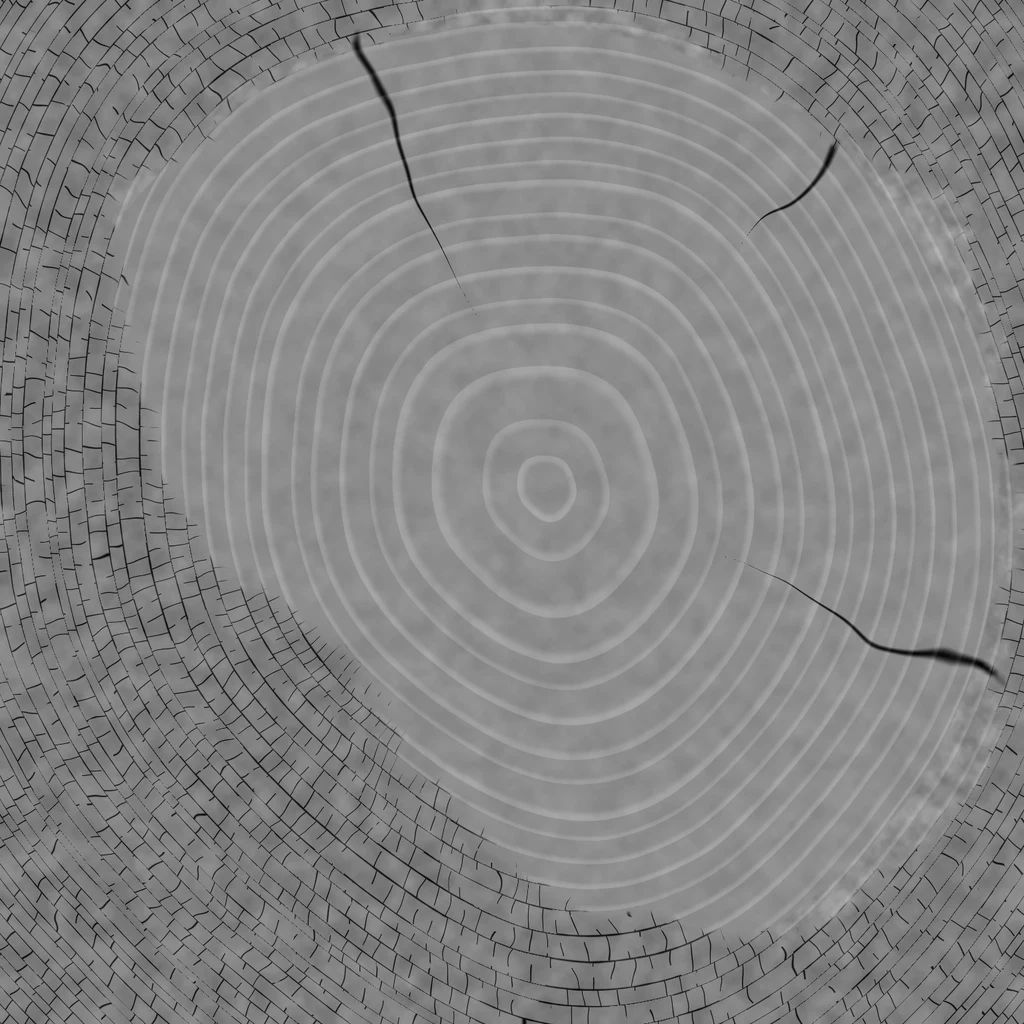
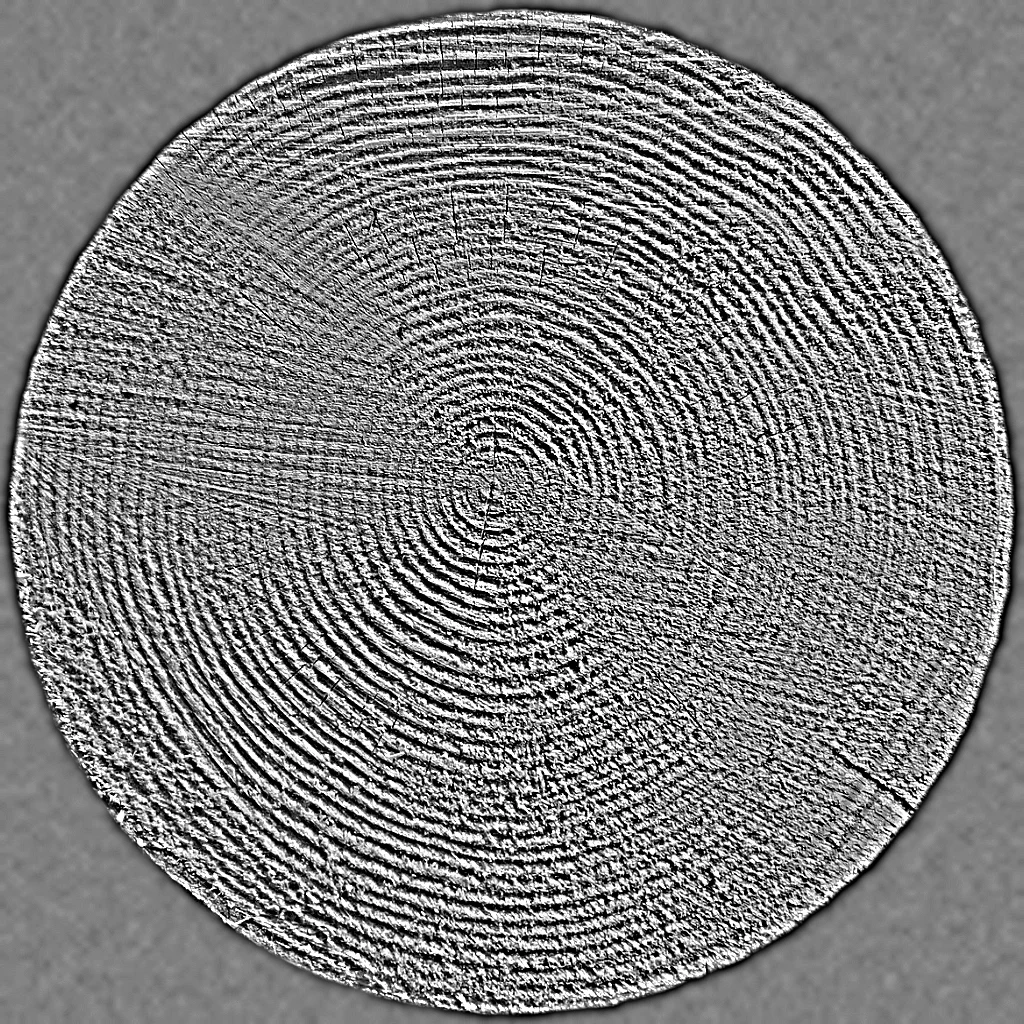
Ekte foto på stammeskiva øverst på forsiden (#9)
* Bygg første versjon av Sitka-nettsiden

Erstatter startsiden fra create-next-app med en ferdig forside i
Sitka-profilen (rød, svart, offwhite, Oswald + Inter):

- Åpningsanimasjon der årringene fra logoen tegnes opp
- Hero med roterende 3D-årring (React Three Fiber) og biokullkorn
- Myk scrolling (Lenis) koblet til GSAP ScrollTrigger
- Seksjoner for problemet, løsningen, prosessen (festet sidelengs
  scroll med pyrolysevideoen), bærekraft, kunder, om oss og kontakt
- Egen musepeker, rullende tekstbånd og scroll-styrte animasjoner (Motion)
- All tekst som skal fylles inn ligger i components/innhold.ts
- README på norsk som forklarer hvor ting ligger

Claude-Session: https://claude.ai/code/session_01RoJtqgtKYFZpRKbvxCJJJw

* Gjør biokullkornene i steg 3 tydeligere

Claude-Session: https://claude.ai/code/session_01RoJtqgtKYFZpRKbvxCJJJw

* Lås scrolling når mobilmenyen er åpen og tilpass tekststørrelse på mobil

Claude-Session: https://claude.ai/code/session_01RoJtqgtKYFZpRKbvxCJJJw

* Julians endringer: rolig 3D-bakgrunn, ekte bilder, fjernet Om oss

- 3D-årringen er nå bare bakgrunn (ingen mus- eller scrollstyring)
- Fjernet Kongshavn vgs, ungdomsbedrift, Om oss, begge rulletekstene og «SITKA» nederst
- Stort «Problemet» og mindre overskrifter i problem-delene
- E-post: sitkabiokull@gmail.com
- Fem ekte bilder fra Wikimedia Commons med fotograf og lisens i bildeteksten

Claude-Session: https://claude.ai/code/session_01RoJtqgtKYFZpRKbvxCJJJw
[…]

diff --git a/components/RingScene.tsx b/components/RingScene.tsx
@@ -1,21 +1,30 @@
 "use client";
 /* eslint-disable react-hooks/immutability -- three.js-objekter endres med vilje i hver frame */
 
-import { Component, Suspense, useEffect, useMemo, useRef, useState, type ReactNode } from "react";
+import {
+  Component,
+  Suspense,
+  useEffect,
+  useMemo,
+  useRef,
+  useState,
+  type ReactNode,
+} from "react";
 import { Canvas, useFrame, useLoader, useThree } from "@react-three/fiber";
 import * as THREE from "three";
 import { LOADED_EVENT } from "./rings";
 
-// En ekte stammeskive av gran som er i ferd med å bli til biokull:
-// lyst treverk med årringer, forkullet kant med glør, og gnister som stiger opp.
-// Teksturene er laget på forhånd og ligger i public/media/treskive/.
+// En stammeskive laget fra et ekte foto av en tømmerstokk (se scripts/fotoskive.py),
+// som vipper rolig mens fint støv svever i lyset. Teksturene ligger i public/media/treskive/.
 
 const T = "/media/treskive/";
 const RED = "#E0201A";
 
 function useLoaded() {
   const [loaded, setLoaded] = useState(
-    () => typeof window !== "undefined" && !!(window as unknown as { __sitkaLoaded?: boolean }).__sitkaLoaded,
+    () =>
+      typeof window !== "undefined" &&
+      !!(window as unknown as { __sitkaLoaded?: boolean }).__sitkaLoaded,
   );
   useEffect(() => {
     const on = () => setLoaded(true);
@@ -27,14 +36,12 @@ function useLoaded() {
 
 function Disc() {
   const group = useRef<THREE.Group>(null);
-  const glowLight = useRef<THREE.PointLight>(null);
   const loaded = useLoaded();
   const intro = useRef(0);
   const { viewport, gl } = useThree();
 
-  const [face, glow, faceBump, bark, barkBump] = useLoader(THREE.TextureLoader, [
+  const [face, faceBump, bark, barkBump] = useLoader(THREE.TextureLoader, [
     T + "treskive.webp",
-    T + "treskive-glod.webp",
     T + "treskive-relieff.webp",
     T + "bark.webp",
     T + "bark-relieff.webp",
@@ -42,9 +49,9 @@ function Disc() {
 
   const mats = useMemo(() => {
     const aniso = gl.capabilities.getMaxAnisotropy();
-    for (const t of [face, glow]) t.colorSpace = THREE.SRGBColorSpace;
+    face.colorSpace = THREE.SRGBColorSpace;
     bark.colorSpace = THREE.SRGBColorSpace;
-    for (const t of [face, glow, faceBump]) t.anisotropy = aniso;
+    for (const t of [face, faceBump]) t.anisotropy = aniso;
     for (const t of [bark, barkBump]) {
       t.wrapS = THREE.RepeatWrapping;
       t.anisotropy = aniso;
@@ -52,11 +59,8 @@ function Disc() {
     const faceMat = new THREE.MeshStandardMaterial({
       map: face,
       bumpMap: faceBump,
-      bumpScale: 2.2,
-      emissiveMap: glow,
-      emissive: new THREE.Color("#ffffff"),
-      emissiveIntensity: 1.4,
-      roughness: 0.82,
+      bumpScale: 1.5,
+      roughness: 0.9,
       metalness: 0,
     });
     const sideMat = new THREE.MeshStandardMaterial({
@@ -67,7 +71,7 @@ function Disc() {
       metalness: 0,
     });
     return [sideMat, faceMat, faceMat];
-  }, [face, glow, faceBump, bark, barkBump, gl]);
+  }, [face, faceBump, bark, barkBump, gl]);
 
   // Smale skjermer (mobil): mindre skive, midtstilt og lenger ned, så den ikke dekker teksten
   const small = viewport.width < 6;
@@ -77,37 +81,40 @@ function Disc() {
   useFrame((state, dt) => {
     if (!group.current) return;
     const t = state.clock.elapsedTime;
-    intro.current = THREE.MathUtils.damp(intro.current, loaded ? 1 : 0, 1.4, dt);
+    intro.current = THREE.MathUtils.damp(
+      intro.current,
+      loaded ? 1 : 0,
+      1.4,
+      dt,
+    );
     const k = intro.current;
 
     group.current.scale.setScalar((small ? smallScale : 1.1) * (0.6 + 0.4 * k));
-    group.current.position.set(small ? 0 : 1.55, (small ? -0.2 * viewport.height : 0) + Math.sin(t * 0.5) * 0.05, 0);
-    group.current.rotation.x = 0.32 + Math.sin(t * 0.3) * 0.04;
+    group.current.position.set(
+      small ? 0 : 1.55,
+      (small ? -0.2 * viewport.height : 0) + Math.sin(t * 0.5) * 0.05,
+      0,
+    );
+    group.current.rotation.x = 0.28 + Math.sin(t * 0.3) * 0.04;
     // vipper rolig fram og tilbake, så forsiden med årringene alltid synes
-    group.current.rotation.y = -0.45 + Math.sin(t * 0.22) * 0.5 + (1 - k) * 1.5;
-    group.current.rotation.z = Math.sin(t * 0.22) * 0.05;
-
-    // glørne blafrer svakt, som ekte glør
-    const flick = 0.75 + 0.18 * Math.sin(t * 2.1) + 0.1 * Math.sin(t * 5.3 + 1) + 0.06 * Math.sin(t * 11.7);
-    (mats[1] as THREE.MeshStandardMaterial).emissiveIntensity = (1.1 + 0.6 * flick) * k;
-    if (glowLight.current) glowLight.current.intensity = (2.5 + 2 * flick) * k;
+    group.current.rotation.y = -0.4 + Math.sin(t * 0.22) * 0.35 + (1 - k) * 1.5;
+    group.current.rotation.z = Math.sin(t * 0.22) * 0.04;
   });
 
   return (
-    <group ref={group}>
-      <mesh rotation={[Math.PI / 2, 0, 0]} material={mats}>
-        <cylinderGeometry args={[1.5, 1.5, 0.38, 160, 1]} />
-      </mesh>
-      {/* varmt lys fra den forkullede siden */}
-      <pointLight ref={glowLight} position={[-1.6, -0.9, 0.9]} color="#ff7a2e" distance={3.5} decay={1.8} />
-      <Embers />
-    </group>
+    <>
+      <Stov />
+      <group ref={group}>
+        <mesh rotation={[Math.PI / 2, 0, 0]} material={mats}>
+          <cylinderGeometry args={[1.5, 1.5, 0.38, 160, 1]} />
+        </mesh>
+      </group>
+    </>
   );
 }
 
-// Glør og gnister som stiger sakte opp fra den forkullede kanten og slukner
-function Embers({ count = 90 }) {
-  const ref = useRef<THREE.Points>(null);
+// Fint støv som svever sakte gjennom lyset, slik man ser i en solstripe i en låve
+function Stov({ count = 140 }) {
   const { data, geo, mat } = useMemo(() => {
     let seed = 3;
     const rnd = () => {
@@ -115,28 +122,33 @@ function Embers({ count = 90 }) {
       return (seed - 1) / 2147483646;
     };
     const data = Array.from({ length: count }, () => ({
-      x: -1.8 + rnd() * 2.4,
-      z: (rnd() - 0.5) * 1.2,
-      life: 3 + rnd() * 4,
-      off: rnd() * 10,
-      drift: (rnd() - 0.5) * 0.5,
-      size: 0.5 + rnd() * 1.2,
+      x: -1 + rnd() * 5,
+      y: -2.2 + rnd() * 4.4,
+      z: -1 + rnd() * 2.5,
+      speed: 0.02 + rnd() * 0.05,
+      off: rnd() * 100,
+      b: 0.15 + rnd() * 0.45,
     }));
     const geo = new THREE.BufferGeometry();
-    geo.setAttribute("position", new THREE.BufferAttribute(new Float32Array(count * 3), 3));
-    geo.setAttribute("color", new THREE.BufferAttribute(new Float32Array(count * 3), 3));
-    // rund, myk prikk
+    geo.setAttribute(
+      "position",
+      new THREE.BufferAttribute(new Float32Array(count * 3), 3),
+    );
+    geo.setAttribute(
+      "color",
+      new THREE.BufferAttribute(new Float32Array(count * 3), 3),
+    );
     const c = document.createElement("canvas");
     c.width = c.height = 64;
     const g = c.getContext("2d")!;
     const grad = g.createRadialGradient(32, 32, 0, 32, 32, 32);
     grad.addColorStop(0, "rgba(255,255,255,1)");
-    grad.addColorStop(0.25, "rgba(255,255,255,0.7)");
+    grad.addColorStop(0.3, "rgba(255,255,255,0.5)");
     grad.addColorStop(1, "rgba(255,255,255,0)");
     g.fillStyle = grad;
     g.fillRect(0, 0, 64, 64);
     const mat = new THREE.PointsMaterial({
-      size: 0.085,
+      size: 0.035,
       map: new THREE.CanvasTexture(c),
       vertexColors: true,
       transparent: true,
@@ -152,18 +164,21 @@ function Embers({ count = 90 }) {
     const pos = geo.attributes.position as THREE.BufferAttribute;
     const col = geo.attributes.color as THREE.BufferAttribute;
     data.forEach((d, i) => {
-      const p = ((t + d.off) % d.life) / d.life; // 0 → 1 gjennom livet
-      const y = -1.1 + p * 3.2;
-      pos.setXYZ(i, d.x + Math.sin(t * 0.9 + i) * 0.12 + d.drift * p, y, d.z + Math.cos(t * 0.7 + i) * 0.1);
-      const fade = Math.sin(Math.PI * Math.min(1, p * 1.2)) * (0.6 + 0.4 * Math.sin(t * 9 + i * 3));
-      const b = Math.max(0, fade) * d.size;
-      col.setXYZ(i, 1.0 * b, (0.38 + 0.25 * (1 - p)) * b, 0.08 * b);
+      const y = ((d.y + 2.2 + (t + d.off) * d.speed) % 4.4) - 2.2;
+      pos.setXYZ(
+        i,
+        d.x + Math.sin(t * 0.15 + i) * 0.25,
+        y,
+        d.z + Math.cos(t * 0.12 + i) * 0.2,
+      );
+      const b = d.b * (0.7 + 0.3 * Math.sin(t * 0.8 + i * 2));
+      col.setXYZ(i, 1.0 * b, 0.86 * b, 0.7 * b);
     });
     pos.needsUpdate = true;
     col.needsUpdate = true;
   });
 
-  return <points ref={ref} geometry={geo} material={mat} />;
+  return <points geometry={geo} material={mat} />;
 }
 
 function hasWebGL() {
@@ -205,7 +220,9 @@ export default function RingScene() {
   // Stopper 3D-tegningen når helten er ute av syne (sparer batteri)
   useEffect(() => {
     if (!wrap.current) return;
-    const io = new IntersectionObserver(([e]) => setVisible(e.isIntersecting), { rootMargin: "100px" });
+    const io = new IntersectionObserver(([e]) => setVisible(e.isIntersecting), {
+      rootMargin: "100px",
+    });
     io.observe(wrap.current);
     return () => io.disconnect();
   }, []);
@@ -218,15 +235,27 @@ export default function RingScene() {
             frameloop={visible ? "always" : "never"}
             dpr={[1, 2]}
             camera={{ position: [0, 0, 7], fov: 35 }}
-            gl={{ antialias: true, alpha: true, powerPreference: "high-performance" }}
+            gl={{
+              antialias: true,
+              alpha: true,
+              powerPreference: "high-performance",
+            }}
             onCreated={({ gl }) => {
               gl.toneMapping = THREE.ACESFilmicToneMapping;
             }}
           >
-            <ambientLight intensity={0.25} color="#ffe8d8" />
+            <ambientLight intensity={0.4} color="#fff1e6" />
             {/* mykt dagslys ovenfra, og et svakt rødt kantlys bakfra (Sitka-rødt) */}
-            <directionalLight position={[-3, 5, 6]} intensity={2.7} color="#fff1e4" />
-            <directionalLight position={[4, -1, -4]} intensity={0.9} color={RED} />
+            <directionalLight
+              position={[-4, 5, 5]}
+              intensity={2.4}
+              color="#fff1e4"
+            />
+            <directionalLight
+              position={[4, -1, -4]}
+              intensity={0.9}
+              color={RED}
+            />
             <Suspense fallback={null}>
               <Disc />
             </Suspense>

diff --git a/components/Hero.tsx b/components/Hero.tsx
@@ -14,7 +14,8 @@ const ease = [0.22, 1, 0.36, 1] as const;
 
 export default function Hero() {
   const loaded = useLoaded();
-  const t = innhold[useSprak()].hero;
+  const lang = useSprak();
+  const t = innhold[lang].hero;
   const ref = useRef<HTMLElement>(null);
   const { scrollYProgress } = useScroll({ target: ref, offset: ["start start", "end start"] });
   const titleY = useTransform(scrollYProgress, [0, 1], ["0%", "60%"]);
@@ -69,7 +70,28 @@ export default function Hero() {
         </div>
 
         <motion.div style={{ y: titleY }}>
-          <div className="mb-2 flex items-end justify-end font-display text-[10px] uppercase tracking-[0.3em] text-off/50 md:text-xs">
+          <div className="mb-2 flex items-end justify-between gap-4 font-display text-[10px] uppercase tracking-[0.3em] text-off/50 md:text-xs">
+            {/* bildet av stammeskiva er et ekte foto, og lisensen krever at fotografen nevnes */}
+            <span className="pointer-events-auto font-sans text-[10px] normal-case tracking-normal text-off/35">
+              {innhold[lang].foto}:{" "}
+              <a
+                href="https://commons.wikimedia.org/wiki/File:Abies_alba_cross_section_Beskid_%C5%BBywiecki.JPG"
+                target="_blank"
+                rel="noreferrer"
+                className="underline decoration-current/30 underline-offset-2 hover:text-red"
+              >
+                Crusier
+              </a>
+              ,{" "}
+              <a
+                href="https://creativecommons.org/licenses/by-sa/3.0/"
+                target="_blank"
+                rel="noreferrer"
+                className="underline decoration-current/30 underline-offset-2 hover:text-red"
+              >
+                CC BY-SA 3.0
+              </a>
+            </span>
             <motion.span
               className="flex items-center gap-2"
               initial={{ opacity: 0 }}

diff --git a/scripts/fotoskive.py b/scripts/fotoskive.py
@@ -1,0 +1,66 @@
+# Lager teksturene til stammeskiva på forsiden fra et ekte foto av en tømmerstokk (Abies alba).
+# Foto: Crusier, Wikimedia Commons, CC BY-SA 3.0. Tekstur = beskåret og rettet ut, delvis forkullet.
+import numpy as np, sys
+# Kilde: https://commons.wikimedia.org/wiki/File:Abies_alba_cross_section_Beskid_%C5%BBywiecki.JPG (1920 px-versjon)
+# Kjør: python3 scripts/fotoskive.py foto.jpg public/media/treskive 0   (siste tall 1 = med forkulling)
+from PIL import Image, ImageFilter
+SRC, OUT, CHAR = sys.argv[1], sys.argv[2], sys.argv[3] == "1"
+src = np.asarray(Image.open(SRC).convert("RGB")).astype(np.float32)
+H, W, _ = src.shape
+s = W / 1280
+cx, cy, rx, ry = 637 * s, 423 * s, 395 * s, 372 * s
+N = 1024
+v, u = np.mgrid[0:N, 0:N].astype(np.float32)
+u = u / (N - 1) * 2 - 1; v = v / (N - 1) * 2 - 1
+k = 0.985
+sx = cx + u * rx * k; sy = cy + v * ry * k
+x0 = np.clip(np.floor(sx).astype(int), 0, W - 2); y0 = np.clip(np.floor(sy).astype(int), 0, H - 2)
+fx = (sx - x0)[..., None]; fy = (sy - y0)[..., None]
+col = (src[y0, x0] * (1 - fx) * (1 - fy) + src[y0, x0 + 1] * fx * (1 - fy) + src[y0 + 1, x0] * (1 - fx) * fy + src[y0 + 1, x0 + 1] * fx * fy)
+R = np.sqrt(u**2 + v**2)
+
+def sm(a, b, x):
+    t = np.clip((x - a) / (b - a), 0, 1); return t * t * (3 - 2 * t)
+def noise(cells, seed):
+    r = np.random.default_rng(seed).random((cells, cells)).astype(np.float32)
+    return np.asarray(Image.fromarray(r, mode="F").resize((N, N), Image.BICUBIC)) - 0.5
+def fbm(base, octs, seed):
+    t = 0; a = 1; tot = 0
+    for o in range(octs):
+        t = t + a * noise(base * 2**o + 1, seed + o); tot += a; a *= 0.5
+    return t / tot
+
+# kanten: mørk bark utenfor årringene (fotoet har litt gress helt ytterst)
+nb = fbm(40, 3, 7)
+bark = sm(0.972, 0.985, R + 0.01 * nb)
+col = col * (1 - bark[..., None]) + np.array([46, 32, 26], np.float32) * (0.8 + nb[..., None]) * bark[..., None]
+lum = col.mean(-1)
+
+glow = np.zeros((N, N), np.float32)
+if CHAR:
+    a = np.arctan2(v, u); a0 = 2.4
+    side = np.maximum(0, np.cos(a - a0))
+    charf = R * 0.75 + 0.42 * side**1.5 + 0.16 * fbm(6, 5, 21) + 0.04 * fbm(60, 3, 3)
+    char = sm(0.735, 0.765, charf)
+    scorch = sm(0.6, 0.75, charf) * (1 - char)
+    # kullet beholder strukturen i treet (lysstyrken fra bildet), bare mye mørkere
+    detail = (lum / 200.0)[..., None]
+    charcol = np.array([20, 17, 15], np.float32) * (0.6 + 0.9 * detail)
+    scorchcol = col * np.array([0.55, 0.38, 0.28], np.float32)
+    col = col * (1 - scorch[..., None]) + scorchcol * scorch[..., None]
+    col = col * (1 - char[..., None]) + charcol * char[..., None]
+    # glør: smal, ujevn linje der det brenner + litt i mørke sprekker i kullet
+    front = sm(0.728, 0.745, charf) * (1 - sm(0.752, 0.772, charf))
+    blink = np.clip(0.2 + 1.6 * (fbm(14, 3, 40) + 0.1), 0, 1)
+    darkcrack = np.clip((110 - lum) / 60, 0, 1) * char * np.exp(-np.clip(charf - 0.75, 0, None) * 10)
+    glow = np.clip(front * blink * 0.95 + darkcrack * blink * 0.5, 0, 1)
+
+Image.fromarray(col.clip(0, 255).astype(np.uint8)).save(f"{OUT}/treskive.webp", quality=90)
+g = np.stack([glow * 255, glow**1.6 * 120, glow**3 * 30], -1)
+Image.fromarray(g.clip(0, 255).astype(np.uint8)).save(f"{OUT}/treskive-glod.webp", quality=88)
+# relieff fra bildet: fin struktur (høypass av lysstyrken)
+L = Image.fromarray(lum.clip(0, 255).astype(np.uint8))
+hp = np.asarray(L).astype(np.float32) - np.asarray(L.filter(ImageFilter.GaussianBlur(6))).astype(np.float32)
+b = np.clip(0.5 + hp / 80, 0, 1)
+Image.fromarray((b * 255).astype(np.uint8)).save(f"{OUT}/treskive-relieff.webp", quality=88)
+print("ferdig")

diff --git a/README.md b/README.md
@@ -44,7 +44,7 @@ Gå så til http://localhost:3000 i nettleseren.
 | `components/innhold.ts` | Tekst og kontaktinfo på forsiden, både norsk (`no`) og engelsk (`en`) |
 | `components/bilder.ts` + `Photo.tsx` | Bildene, bildetekstene og animasjonen når de dukker opp |
 | `components/Preloader.tsx` | Åpningsanimasjonen (årringene som tegnes) |
-| `components/Hero.tsx` + `RingScene.tsx` | Toppen av siden: 3D-stammeskive som er i ferd med å bli biokull (teksturene ligger i `public/media/treskive/` og lages med `scripts/treskive.py`) |
+| `components/Hero.tsx` + `RingScene.tsx` | Toppen av siden: 3D-stammeskive laget av et ekte foto (Crusier, CC BY-SA 3.0, kreditert nederst i toppen). Teksturene ligger i `public/media/treskive/`: forsiden lages med `scripts/fotoskive.py`, barken med `scripts/treskive.py` |
 | `components/Problem.tsx` | Ammoniakk og sitkagran |
 | `components/Solution.tsx` | Løsningen, med biokullkornet og kortene |
 | `components/Process.tsx` | De fire stegene som scroller sidelengs |
